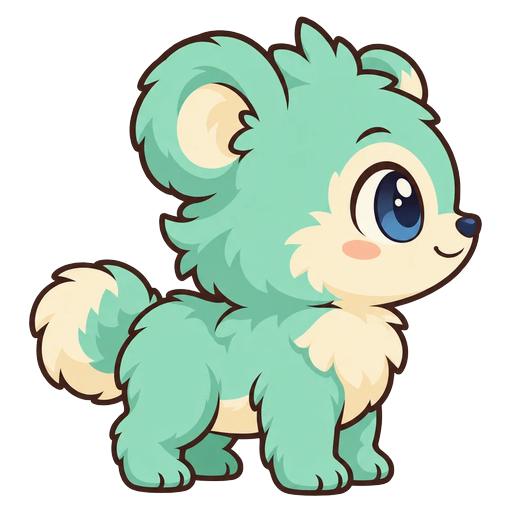
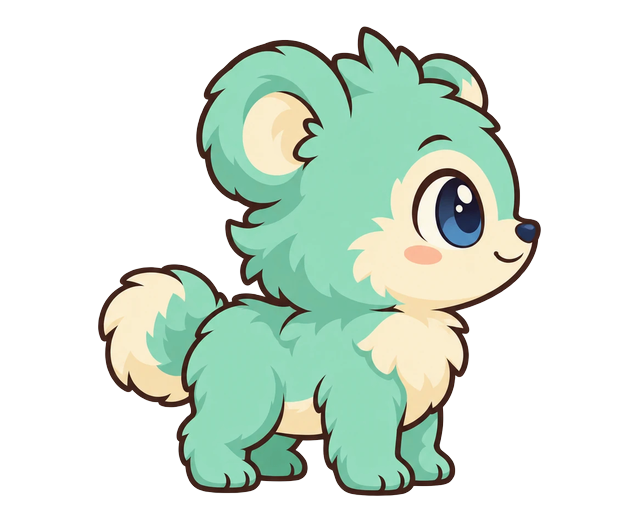
char_a_run1 eklendi; sprite hazırlama aracı ve ortak ölçek
Claude-Session: https://claude.ai/code/session_018fPM2RtNHVRPiWAchGStGm

diff --git a/oyun-fikirlerim/iki-kisilik-oyun/tools_sprite.py b/oyun-fikirlerim/iki-kisilik-oyun/tools_sprite.py
@@ -1,0 +1,14 @@
+"""ChatGPT'den gelen karakter görsellerini oyun için hazırlar.
+Kullanım: python3 tools_sprite.py <kaynak.webp|png> <hedef.png>
+Hepsi aynı ölçekle işlenir, böylece pozlar arasında boyut tutarlı kalır."""
+import sys
+from PIL import Image
+SCALE, W, H, PAD = 0.55, 640, 512, 16   # kaynak px -> çıktı px, tuval, alt boşluk
+im = Image.open(sys.argv[1]).convert('RGBA')
+im.putalpha(im.getchannel('A').point(lambda v: 0 if v < 16 else v))  # kenar gürültüsünü sil
+im = im.crop(im.getbbox())
+im = im.resize((round(im.width * SCALE), round(im.height * SCALE)), Image.LANCZOS)
+c = Image.new('RGBA', (W, H), (0, 0, 0, 0))
+c.paste(im, ((W - im.width) // 2, H - PAD - im.height), im)          # ayaklar tabana
+c.save(sys.argv[2], optimize=True)
+print(sys.argv[2], im.size)
